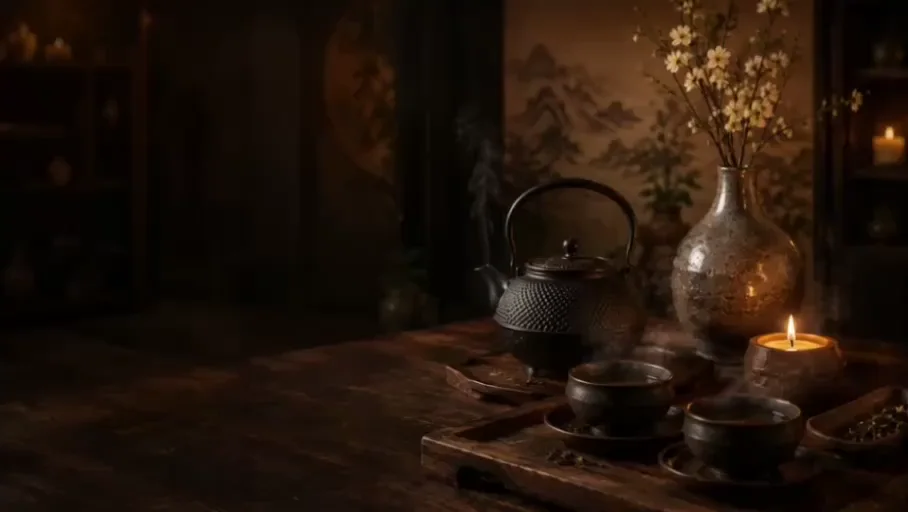
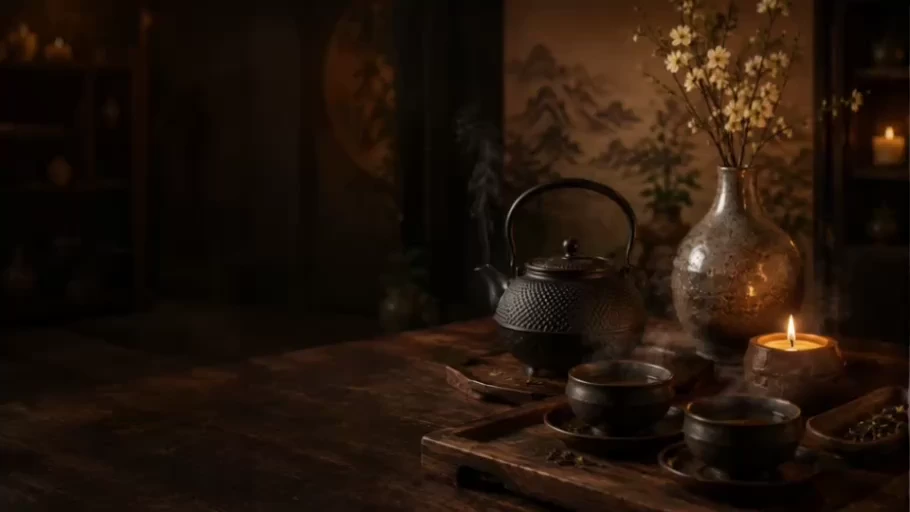
V3

diff --git a/index.html b/index.html
@@ -58,7 +58,7 @@
       <div class="hero__scene hero__scene--video" data-scene aria-hidden="true">
         <picture class="hero__picture hero__picture--fallback">
           <source media="(max-width: 767px)" srcset="assets/images/hero-scene-mobile.webp">
-          <img src="assets/images/hero-video-poster.webp" width="908" height="512" alt="" fetchpriority="high" decoding="async">
+          <img src="assets/images/hero-video-poster.webp" width="910" height="512" alt="" fetchpriority="high" decoding="async">
         </picture>
 
         <video
@@ -72,7 +72,6 @@
           poster="assets/images/hero-video-poster.webp"
           tabindex="-1"
         >
-          <source src="assets/video/hero-tea-loop.webm" type="video/webm">
           <source src="assets/video/hero-tea-loop.mp4" type="video/mp4">
         </video>
 

diff --git a/README.md b/README.md
@@ -1,6 +1,6 @@
 # Hero-блок «Я Бао Завари»
 
-Адаптивный прототип hero-блока с шапкой, анимированным паром, мерцанием свечи, мобильным меню и демонстрационной формой бронирования.
+Адаптивный прототип hero-блока с шапкой, фоновым видео, мобильным меню и демонстрационной формой бронирования.
 
 ## Запуск
 
@@ -51,14 +51,13 @@ README.md
 
 - семантический hero-блок и один `h1`;
 - адаптивная шапка и мобильное меню;
-- CSS/SVG-анимация пара над чайником и пиалами;
-- мерцание пламени и тёплого свечения;
-- лёгкий параллакс изображения от курсора;
+- фоновое видео с паром и свечой;
+- неподвижная композиция без курсорного параллакса;
 - поддержка `prefers-reduced-motion`;
 - модальное окно бронирования;
 - маска телефона и клиентская валидация;
 - видимые focus-состояния и управление с клавиатуры;
-- оптимизированное WebP-изображение;
+- WebP-постер первого кадра;
 - базовые метаданные для SEO.
 
 ## Перед публикацией реального сайта
@@ -75,8 +74,9 @@ README.md
 
 Фоновое видео находится в `assets/video/`:
 
-- `hero-tea-loop.webm` — основной облегчённый формат;
-- `hero-tea-loop.mp4` — совместимый fallback;
-- `assets/images/hero-video-poster.webp` — первый кадр, который показывается до запуска видео.
+- `hero-tea-loop.mp4` — исходное видео без повторного сжатия;
+- `assets/images/hero-video-poster.webp` — первый кадр высокого качества, который показывается до запуска видео.
+
+MP4 сохранён побайтно из загруженного исходника. Повторное кодирование и чрезмерная оптимизация не применялись, поэтому качество соответствует оригинальному файлу.
 
 Видео подключено с атрибутами `autoplay`, `muted`, `loop` и `playsinline`. Камера и контейнер hero не двигаются: ранее использовавшийся курсорный параллакс отключён. На мобильных устройствах до 767 px и при `prefers-reduced-motion: reduce` используется статичное изображение, чтобы не расходовать трафик и батарею. Видеопроигрывание автоматически останавливается, когда hero уходит за пределы экрана или вкладка становится неактивной.